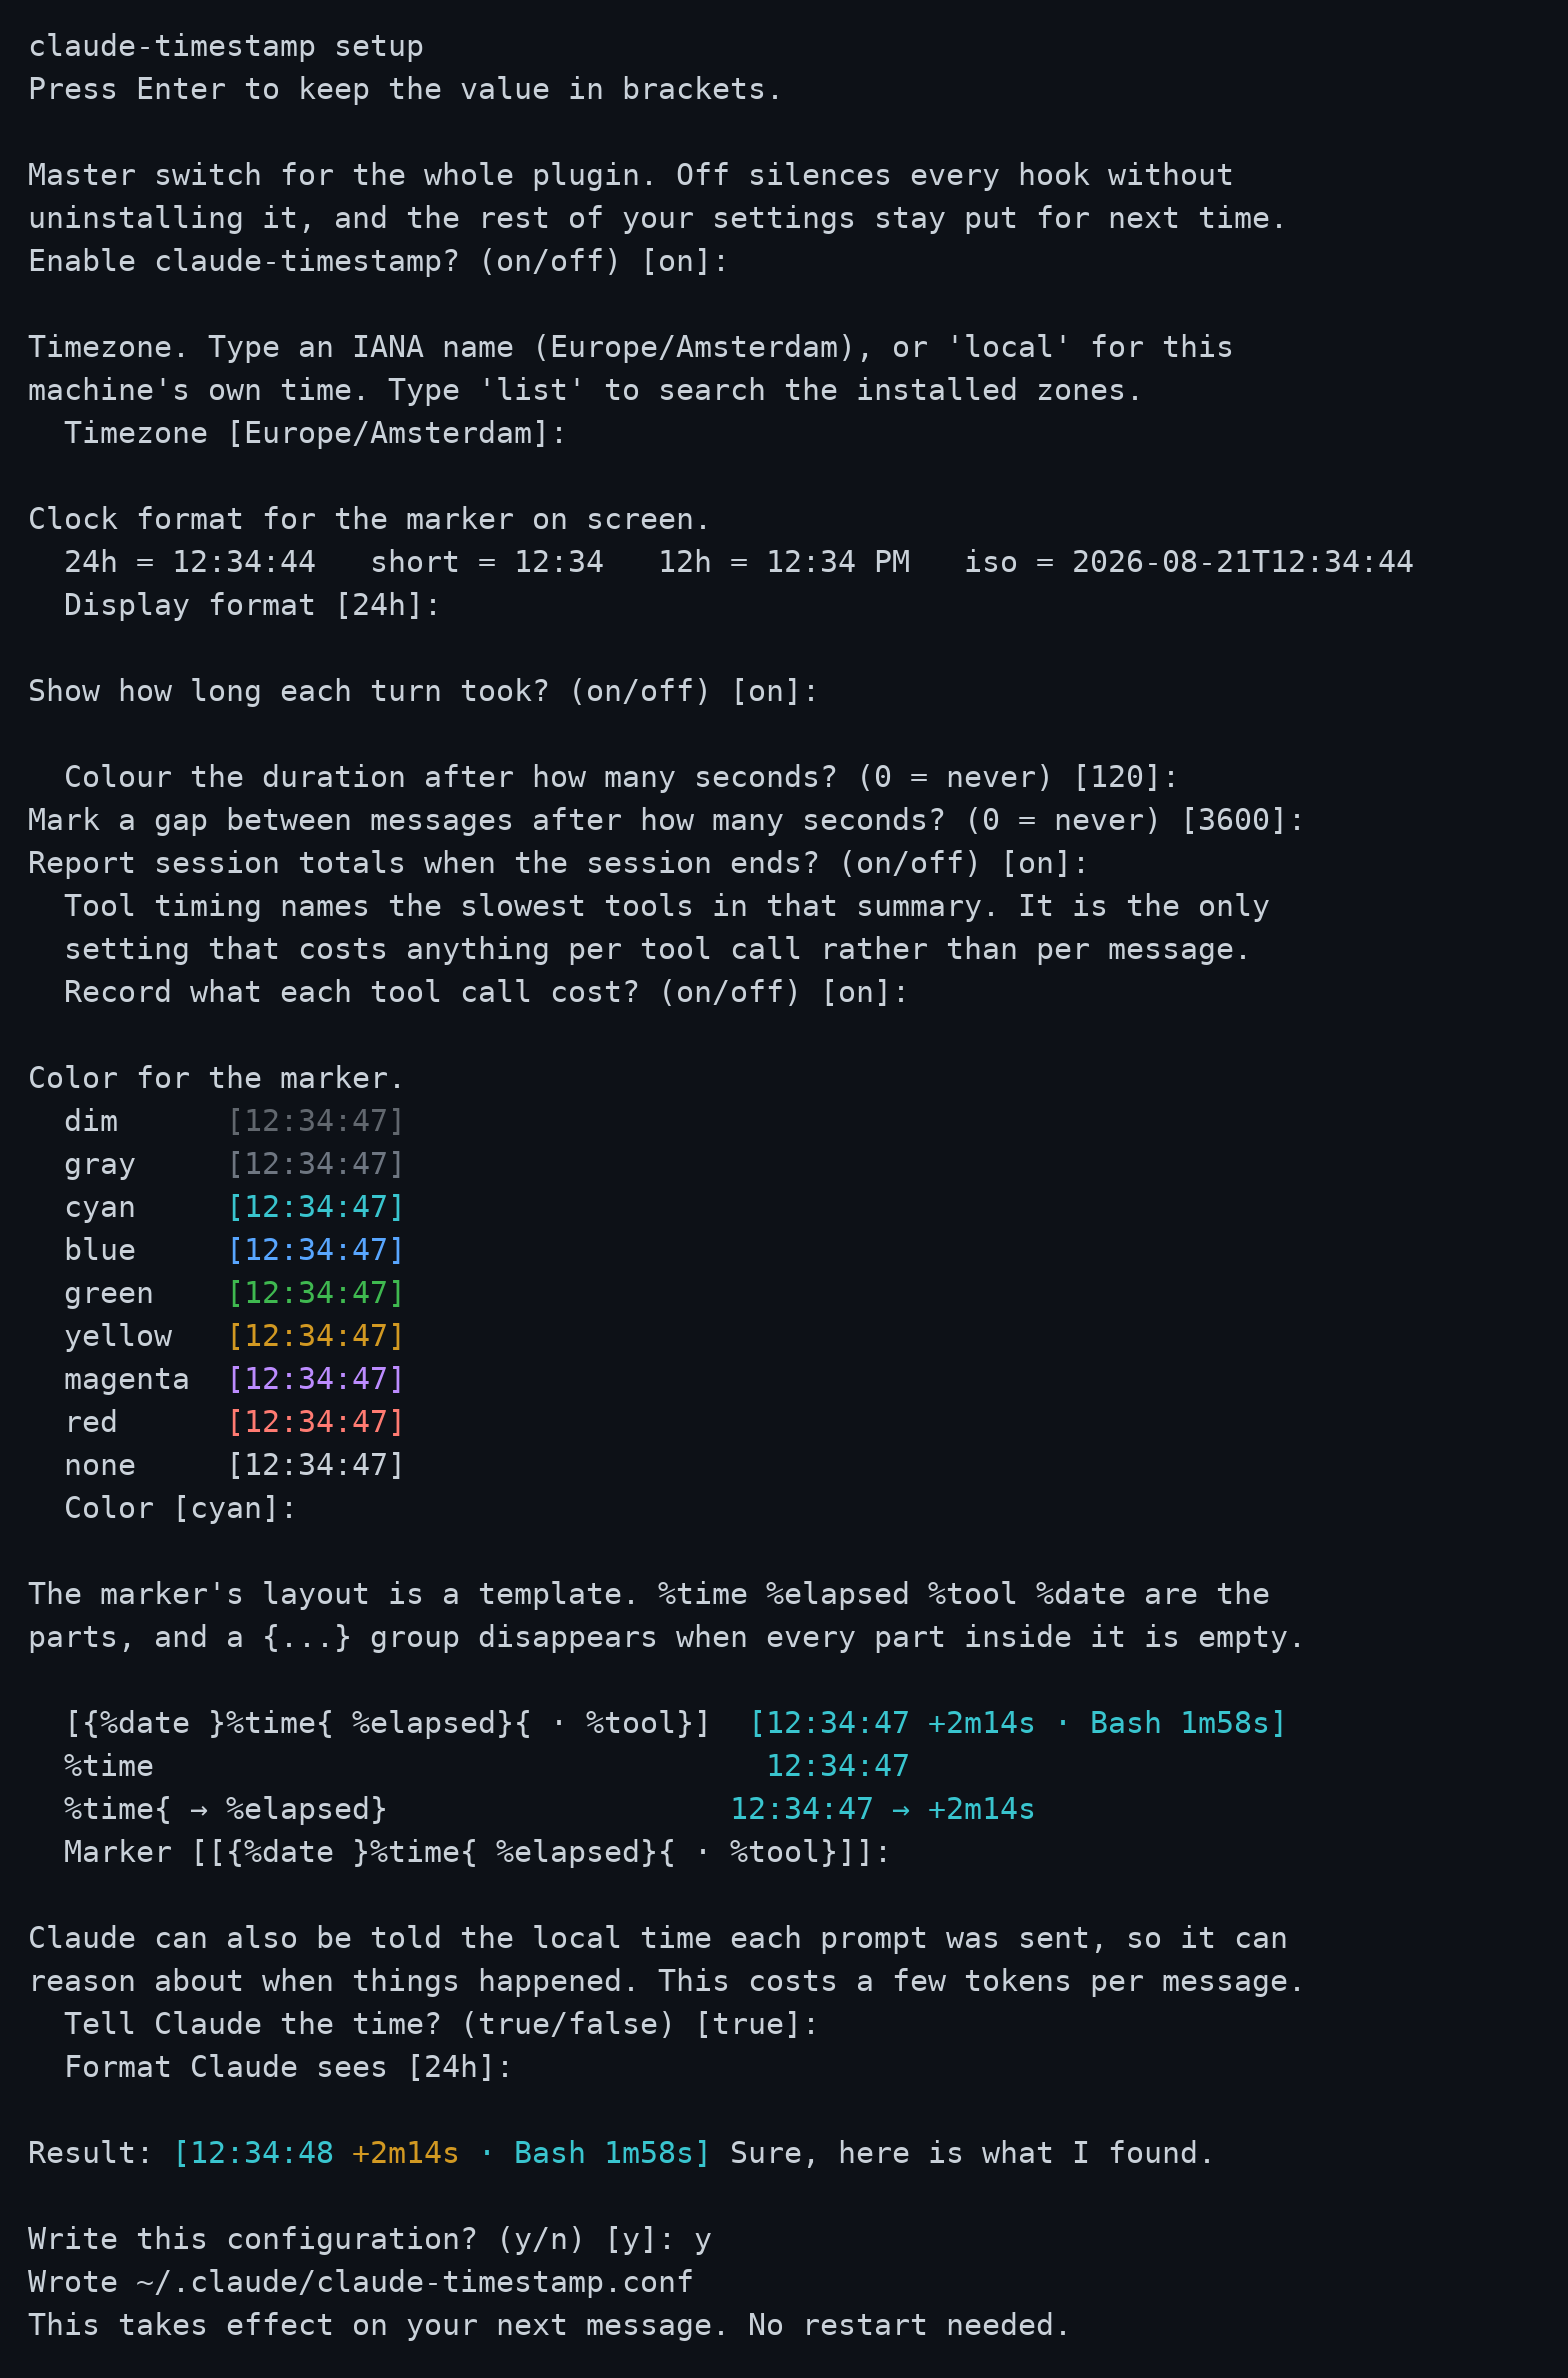
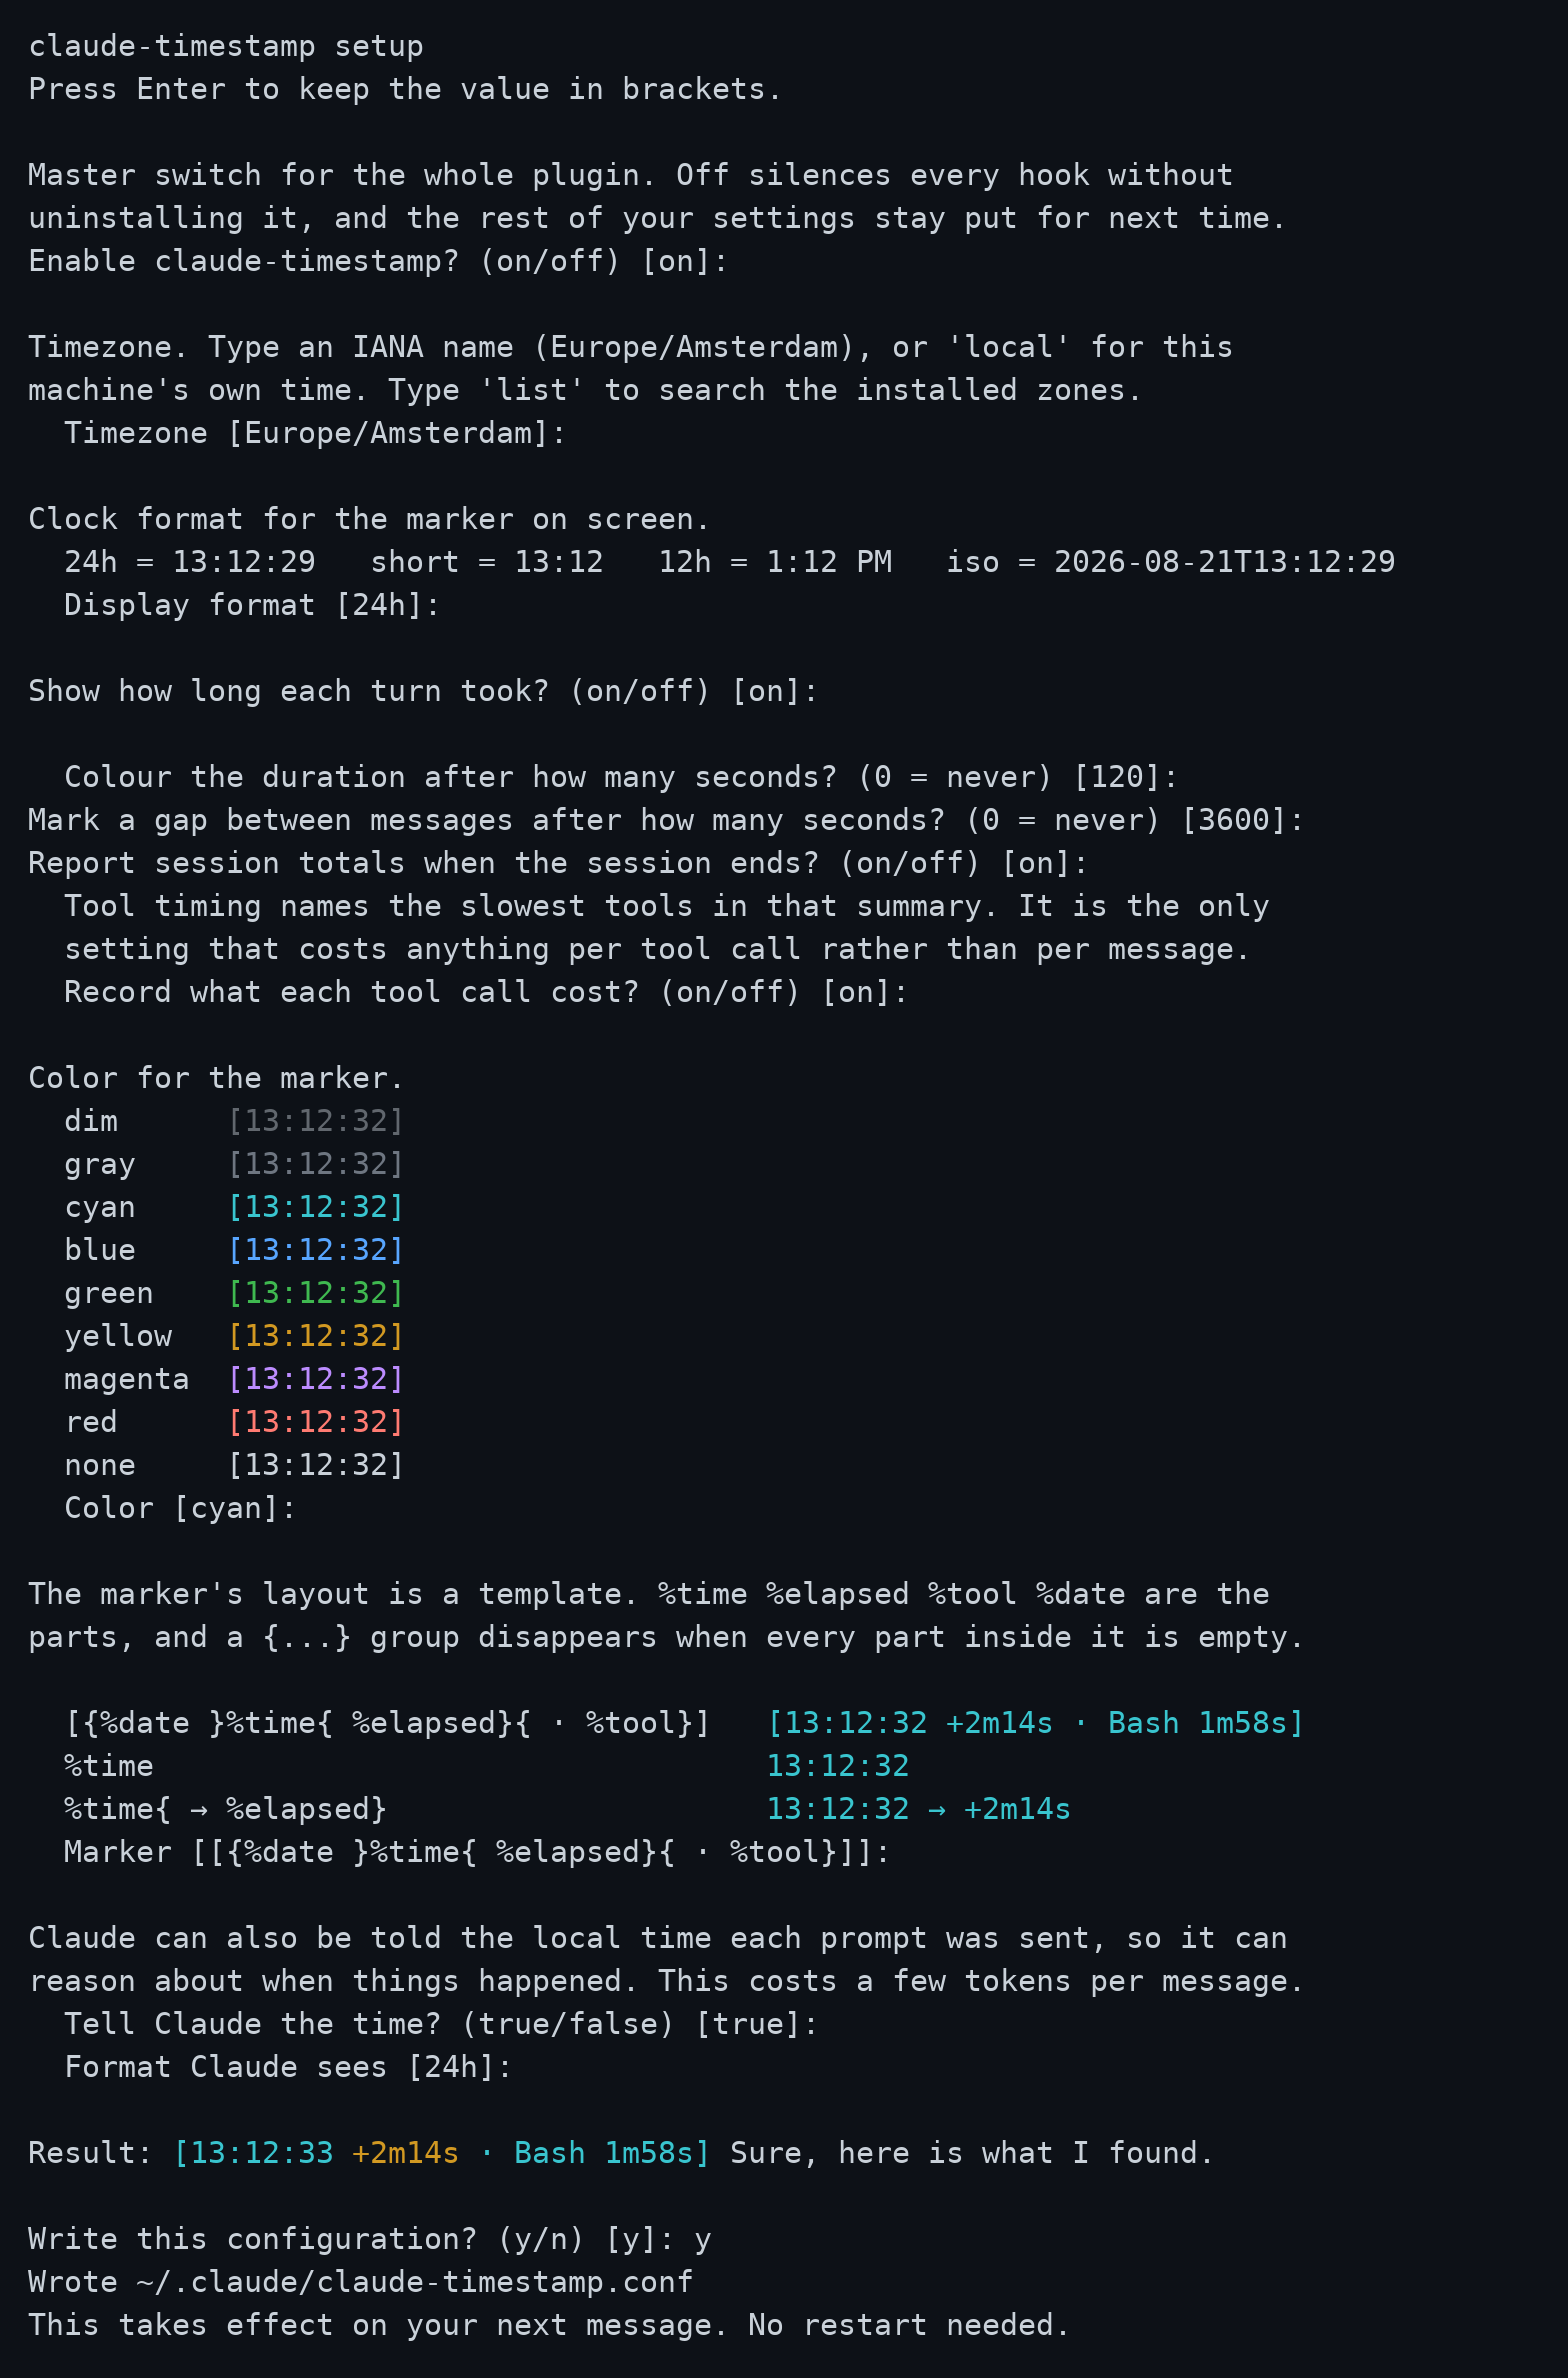
fix: close the whole-branch review's remaining gaps in MARKER and part colours
write_project_config's own positional list never learned HISTORY or
HISTORY_LIMIT, so an unrelated --project write silently erased a project's
pinned history settings; both are now carried through like every other key.

--time-color=, --elapsed-color= and --tool-color= treated an explicitly
empty value the same as "not named on the command line", so there was no way
back to inherit COLOR once a part had a real colour. --foo=inherit now sets
it back, following the --tz=local precedent; a bare --foo= is rejected
rather than silently doing nothing, since it is ambiguous with "not named"
in write_project_config the same way TZ's own bare form already is.

--show never grew the marker and part-colour rows doctor got when MARKER
shipped. %date's colour was undocumented in the README and schema.json, and
unasserted, even though message-display.sh always painted it with
TIME_COLOR. A MARKER that renders empty left a bare leading space on every
message. /timestamps was told to diagnose "no colour, not a terminal" from a
facts file that never recorded the entrypoint; session-start.sh now writes
it. A stale comment named a plan task that has shipped since 9c59923. The
wizard's template previews padded by bytes rather than columns, landing two
of three multi-byte previews early; screenshot regenerated.

467 -> 484 assertions, each proven to fail before the fix that closes it.

diff --git a/README.md b/README.md
@@ -6,7 +6,7 @@
 
 [![Release](https://img.shields.io/github/v/release/AraneaDev/claude-timestamp)](https://github.com/AraneaDev/claude-timestamp/releases)
 [![CI](https://github.com/AraneaDev/claude-timestamp/actions/workflows/ci.yml/badge.svg)](https://github.com/AraneaDev/claude-timestamp/actions/workflows/ci.yml)
-[![Tests](https://img.shields.io/badge/tests-467%20passing-2b8a3e)](tests/run.sh)
+[![Tests](https://img.shields.io/badge/tests-484%20passing-2b8a3e)](tests/run.sh)
 [![Platform](https://img.shields.io/badge/platform-Linux%20%7C%20macOS%20%7C%20Windows-364fc7)](#platform-notes)
 [![License: MIT](https://img.shields.io/badge/License-MIT-yellow.svg)](./LICENSE)
 
@@ -142,6 +142,8 @@ Each part takes its own colour through `TIME_COLOR`, `ELAPSED_COLOR` and
 `TOOL_COLOR`. An empty one follows `COLOR`, which is what "inherit" means in the
 settings table. `SLOW_COLOR` still wins over `ELAPSED_COLOR` once a turn crosses
 `SLOW_AFTER`, because a slow turn being obvious is the point of that setting.
+`TIME_COLOR` colours both `%time` and `%date`, since the date is part of the
+clock.
 
 Colour is written as ANSI escape sequences, which only help where something
 interprets them. A terminal does. Claude Code in VS Code, and other clients that
@@ -232,7 +234,7 @@ cannot run anything.
 | `CONTEXT_FORMAT` | `24h` | Same values, for the time Claude is told |
 | `COLOR` | `dim` | `none`, `dim`, `gray`, `red`, `green`, `yellow`, `blue`, `magenta`, `cyan` |
 | `MARKER` | `[{%date }%time{ %elapsed}{ · %tool}]` | The marker's layout. `%time`, `%elapsed`, `%tool` and `%date` are the parts, a `{...}` group disappears when every part inside it is empty, and groups do not nest |
-| `TIME_COLOR` | inherit | Colour of `%time`; empty follows `COLOR` |
+| `TIME_COLOR` | inherit | Colour of `%time` and `%date`; empty follows `COLOR` |
 | `ELAPSED_COLOR` | inherit | Colour of `%elapsed`; `SLOW_COLOR` still wins on a slow turn |
 | `TOOL_COLOR` | inherit | Colour of `%tool`; empty follows `COLOR` |
 | `ELAPSED` | `on` | Show how long the turn took |
@@ -372,7 +374,7 @@ no database.
 ## Development
 
 ```bash
-bash tests/run.sh                                    # 467 assertions, no framework
+bash tests/run.sh                                    # 484 assertions, no framework
 shellcheck -S style -e SC1091 hooks/scripts/**/*.sh  # clean
 bash tools/check-docs.sh                             # README against the code
 ```

diff --git a/commands/timestamps.md b/commands/timestamps.md
@@ -314,11 +314,15 @@ Read the facts file and the config files, and check them against
 - A value `schema.json` rejects: the plugin is using the default instead.
 - `ENABLED=off`: everything is switched off, which is easy to forget having
   done.
-- The marker has no colour and they are not in a terminal, such as the VS Code
-  extension: colour is only emitted for a real terminal session, because a
-  client that does not interpret ANSI would otherwise show the escape codes as
-  literal text. `FORCE_COLOR=1` overrides that and turns colour on anyway;
-  `NO_COLOR` still wins over everything, including `FORCE_COLOR`.
+- The marker has no colour: check the facts file's `entrypoint`. `cli` is the
+  only value that gets colour, because colour is only emitted for a real
+  terminal session; anything else, such as `claude-vscode`, is a client that
+  does not interpret ANSI, so the plugin sends plain text there on purpose. An
+  empty `entrypoint` almost always means an older Claude Code that predates
+  this variable, which still gets colour, so look at the terminal itself if
+  colour is missing there. `FORCE_COLOR=1` turns colour on regardless of
+  `entrypoint`; `NO_COLOR` still wins over everything, including
+  `FORCE_COLOR`.
 
 If none of those explain it, stop there rather than inventing a next step. Say
 what you checked and what each answer was, so the user can see the ground you
